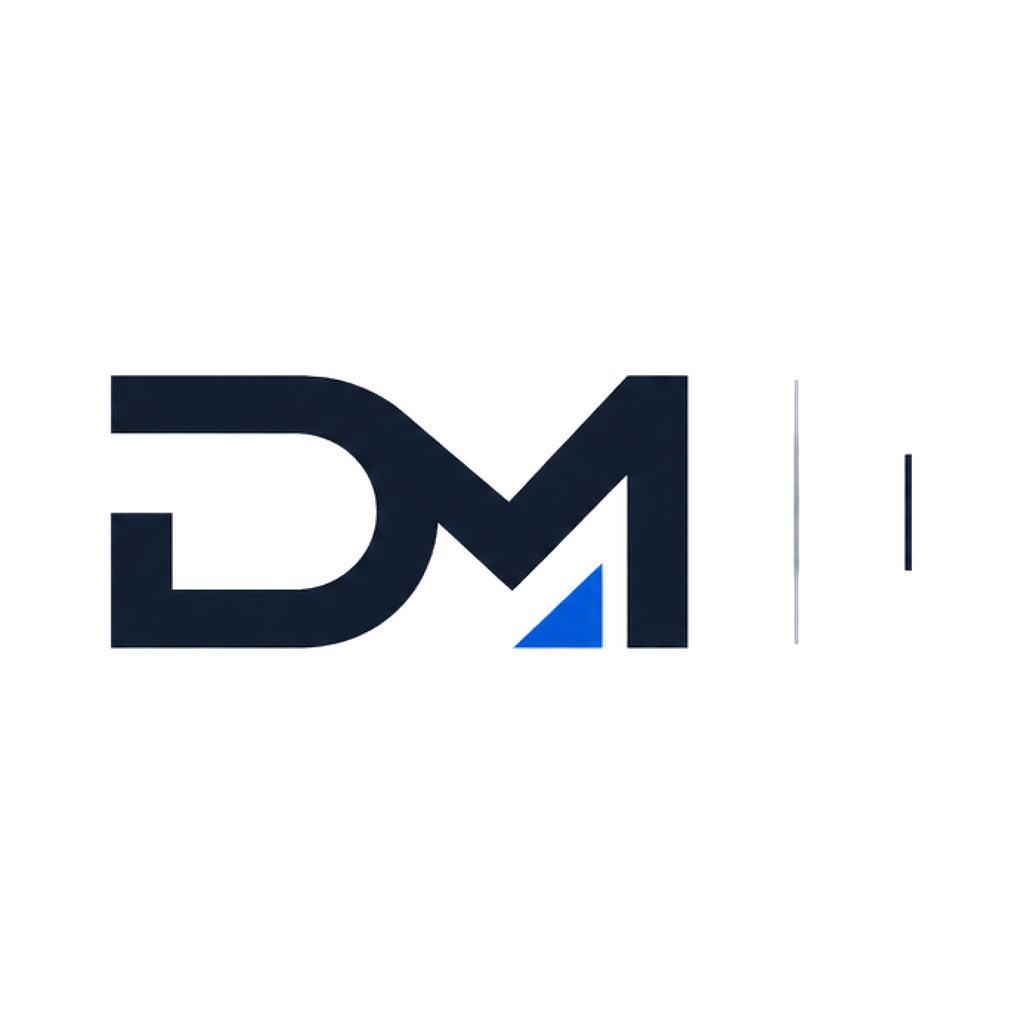
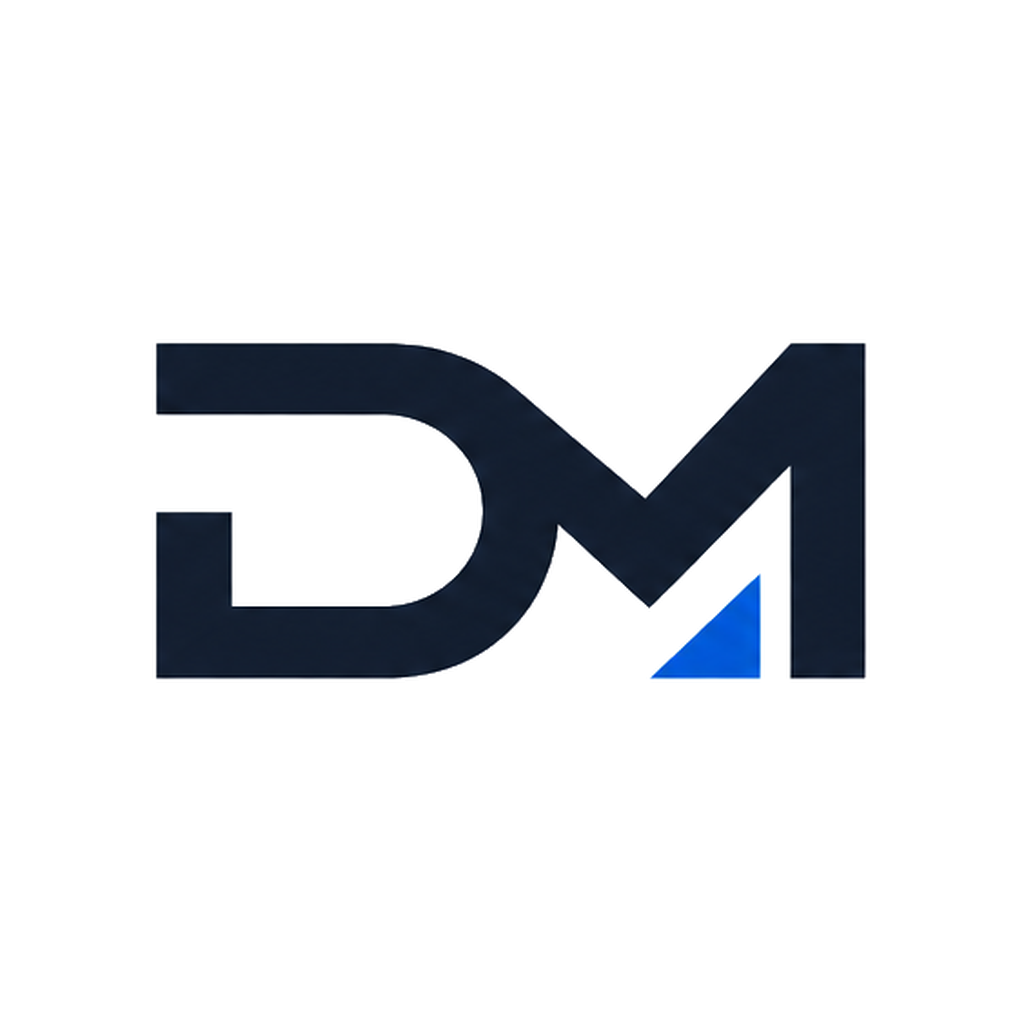
Bump 1.6.1: corrige ícone sem fundo e vazamento visual nos modais do PDV
Ícone (assets/icon.png, usado na bolha e nos ícones do Windows) tinha
ficado transparente — sobre o papel de parede/área de trabalho isso faz o
ícone ficar difícil de ver ou "sumir". Volta a ter fundo branco sólido
(a logo usada dentro do próprio app — cabeçalhos, login — continua
transparente, essa faz sentido só nos ícones que flutuam sobre o desktop).

Bug mais sério, confirmado real pelo usuário testando no Windows: TODOS os
modais do PDV (não só o menu) mostravam o papel de parede do Windows
vazando através da janela principal. Confirmado que não é bug de CSS/React
(testado num Chromium comum, o backdrop cobre o viewport certinho) — é um
artefato conhecido do Electron/Chromium no Windows quando há janela
transparente + sempre-no-topo (a bolha) coexistindo com outras janelas,
dependendo da GPU/driver. Corrigido com app.disableHardwareAcceleration()
(fix padrão documentado pra esse tipo de bug) e removendo transparent:true
da splash (o cartão branco já é desenhado no próprio HTML, não precisa da
janela ser transparente também — reduz ainda mais o risco).

Changed region(s): [[0.0938, 0.3125, 0.8438, 0.6875], [0.875, 0.4375, 0.9062, 0.5625]]

diff --git a/desktop/src/main.js b/desktop/src/main.js
@@ -5,6 +5,15 @@ const fs = require("fs");
 const net = require("net");
 const { spawn } = require("child_process");
 
+// Janela transparente (bolha, sempre no topo) + compositor do Windows em
+// certas placas de vídeo/drivers causa um artefato visual conhecido: outras
+// janelas do app (inclusive os modais do PDV) ficam parcialmente
+// transparentes, deixando a área de trabalho aparecer por trás. Desativar
+// aceleração de hardware é a correção padrão pra esse tipo de bug do
+// Electron/Chromium no Windows — sem isso, quem tem GPU/driver afetado vê o
+// papel de parede vazando através da janela principal.
+app.disableHardwareAcceleration();
+
 const BUBBLE_SIZE = 72;
 const PROD_API_URL = "https://ferro.dmtecnologia.com/api";
 const ICON_PATH = path.join(__dirname, "..", "assets", "icon.png");
@@ -25,7 +34,11 @@ function createSplashWindow() {
     width: 420,
     height: 320,
     frame: false,
-    transparent: true,
+    // Sem transparent:true de propósito — o cartão branco arredondado já é
+    // desenhado no próprio splash.html; janela transparente a mais só
+    // aumenta o risco do bug de composição do Windows (ver
+    // disableHardwareAcceleration acima).
+    backgroundColor: "#ffffff",
     resizable: false,
     movable: false,
     alwaysOnTop: true,